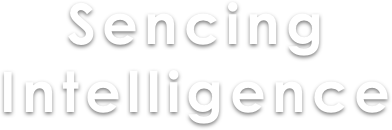
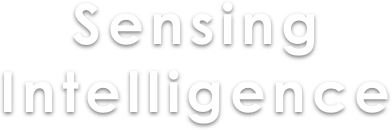
fix bugs for mobile device

Changed region(s): [[0.1531, 0.0615, 0.8265, 0.4615]]

diff --git a/index.html b/index.html
@@ -57,6 +57,32 @@
     bottom: 0;
         margin-bottom: -20px;
       }
+
+      @media only screen and (max-device-width: 480px){
+        .logo img {
+          width: 120px;
+        }
+        .si {
+          margin-top: 180px;
+        }
+        .si img {
+          width: 280px;
+        }
+        .wave {
+          display: none;
+        }
+
+        .contact-text {
+          font-size: 18px;
+        }
+
+        .contact-email {
+          font-family: GillSans;
+          font-size: 20px;
+          font-weight: 300;
+
+        }
+      }
   </style>
 </head>
 <body>
